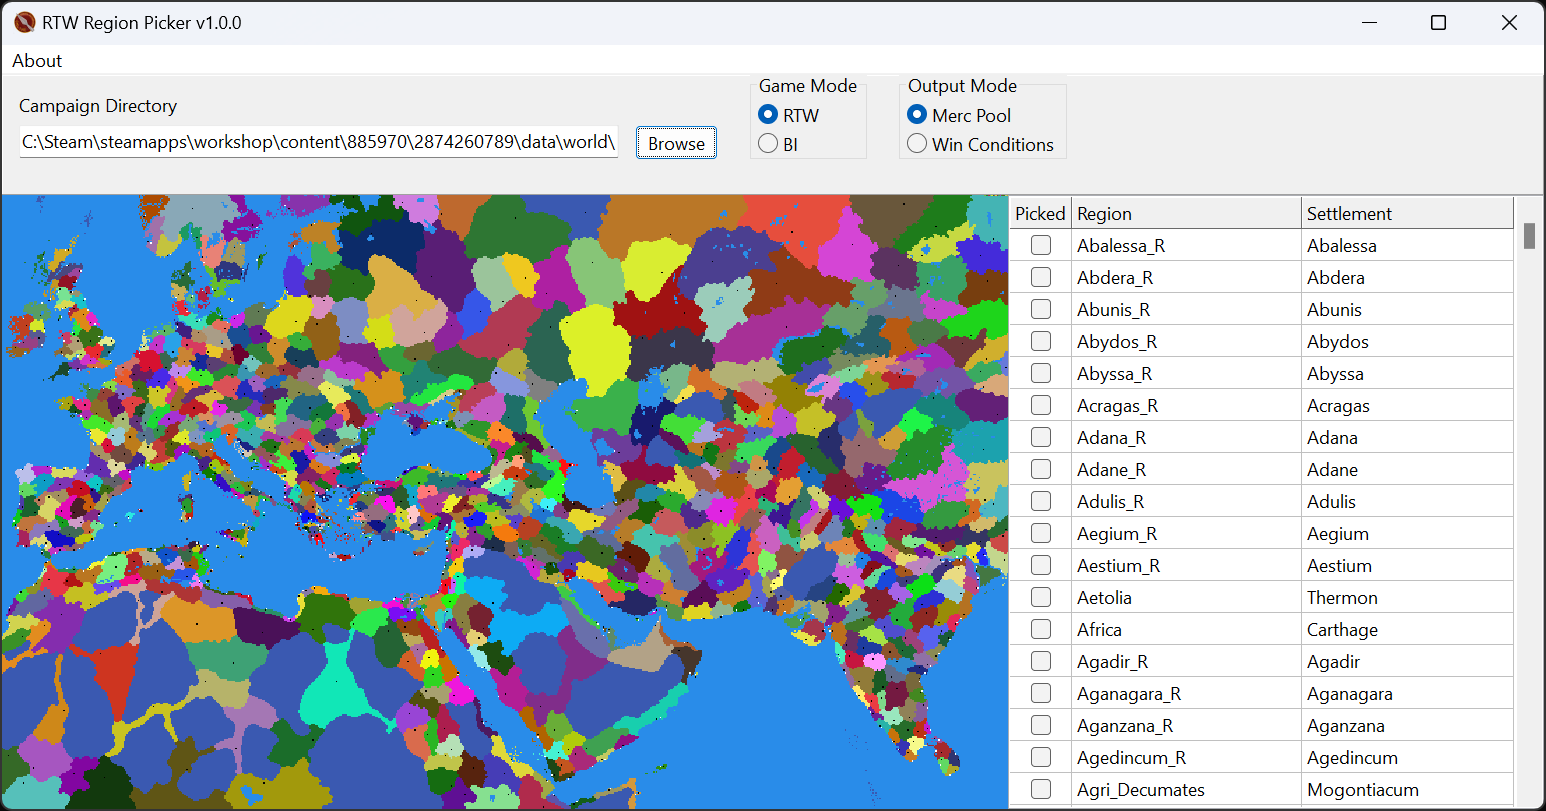
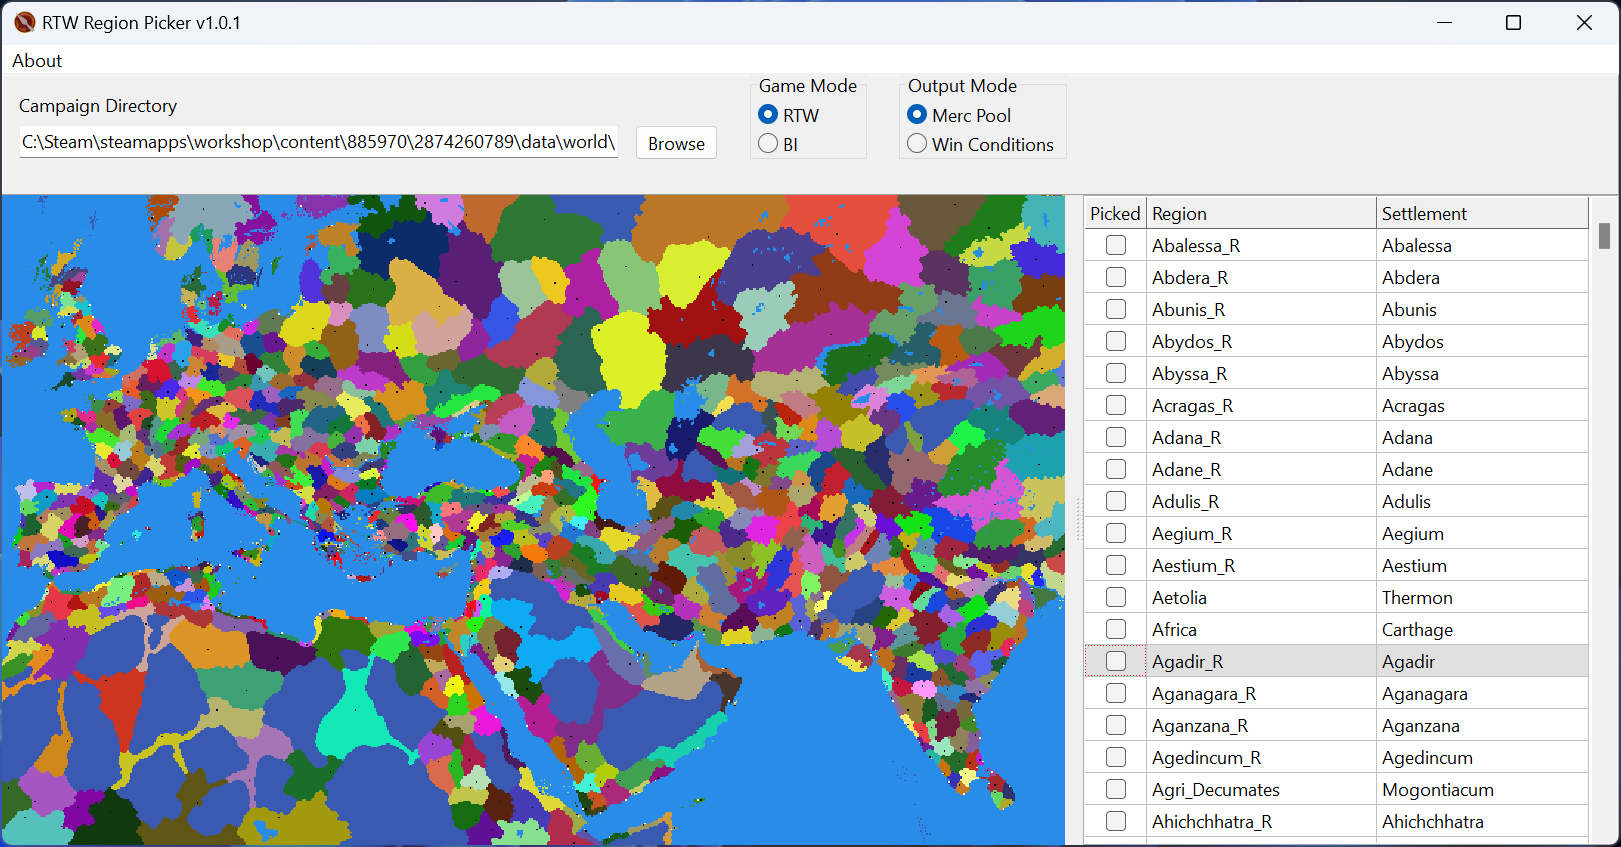
change settlements column to be read-only; add ability to resize columns or double-click to auto-size; add splitter to drag and resize map vs grid width

diff --git a/CHANGELOG.md b/CHANGELOG.md
@@ -1,9 +1,21 @@
 # Changelog
 
+## [1.0.1] - 2023-03-13
+
+### Added
+
+- Ability to resize columns.
+- Splitter to allow resizing width of map vs grid.
+
+### Fixed
+
+- Changed settlements column to read-only.
+
 ## [1.0.0] - 2023-03-13
 
 ### Added
 
 - GUI app written in Object Pascal (Lazarus IDE, FreePascal compiler) to pick regions from _Rome: Total War_ modifications
 
+[1.0.1]: https://gitlab.com/eb-online/tools/rtw-region-picker/-/compare/v1.0.0...v1.0.1
 [1.0.0]: https://gitlab.com/eb-online/tools/rtw-region-picker/-/releases/v1.0.0
